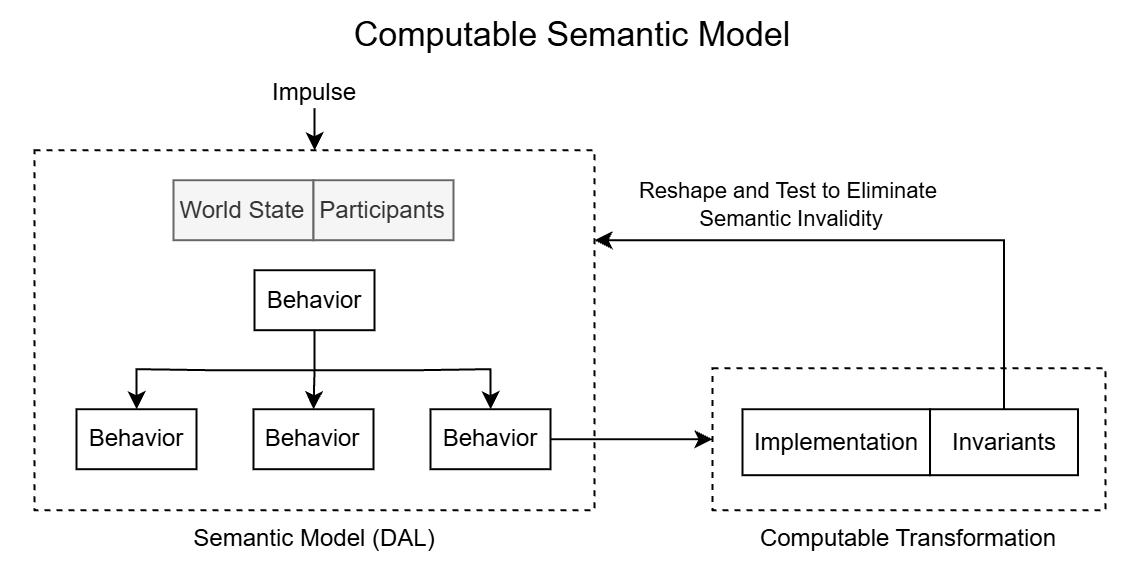
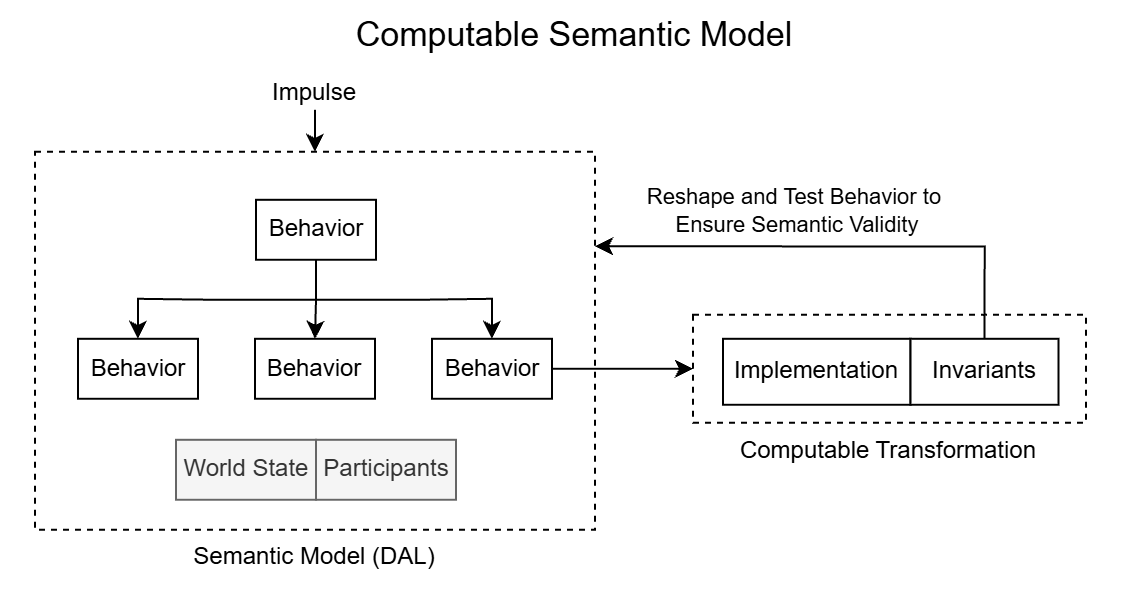
Add diagram for design and update computable semantic model diagram.

diff --git a/workbench/docs/DLP.md b/workbench/docs/DLP.md
@@ -8,6 +8,8 @@ A design is a closed semantic world. It contains participants whose state is tra
 
 The design is said to be in a semantically invalid state when one of its intentions can’t be realized as a result of the state. When the environment provides an input into this closed world, in order to continue successfully realizing its intentions, the design must prevent semantically invalid states from persisting in its reality. To achieve this, semantic invariants act as markers which identify the semantically invalid state and predict the failure of downstream behaviors. This establishes an invariant path from the semantically invalid state to the intention that can’t be realized and in order to restore semantic validity, the design must provide a semantically valid path to resolve the state.
 
+![Design](../assets/design.png)
+
 Since the design is completely unambiguous and semantic in nature, another valid way to represent it as potential narratives within a closed semantic world and I will be using this framing in the rest of this document because it is more accessible. These narratives can be constructed by identifying the participants involved, the transformation being applied and the decisions that were made. When an environment provides an impulse into the design, a specific narrative is selected in this world. When looked at in this way, a semantically invalid path can be seen as a narrative that must be eliminated from the potential narratives of this closed semantic world and instead, the design must provide a semantically valid narrative for the environmental impulse as it moves through the design. By only allowing semantically valid narratives in the closed semantic world, the design eliminates failures with respect to all the known invariants.
 
 ![Invariant Path](../assets/invariant_path.png)
